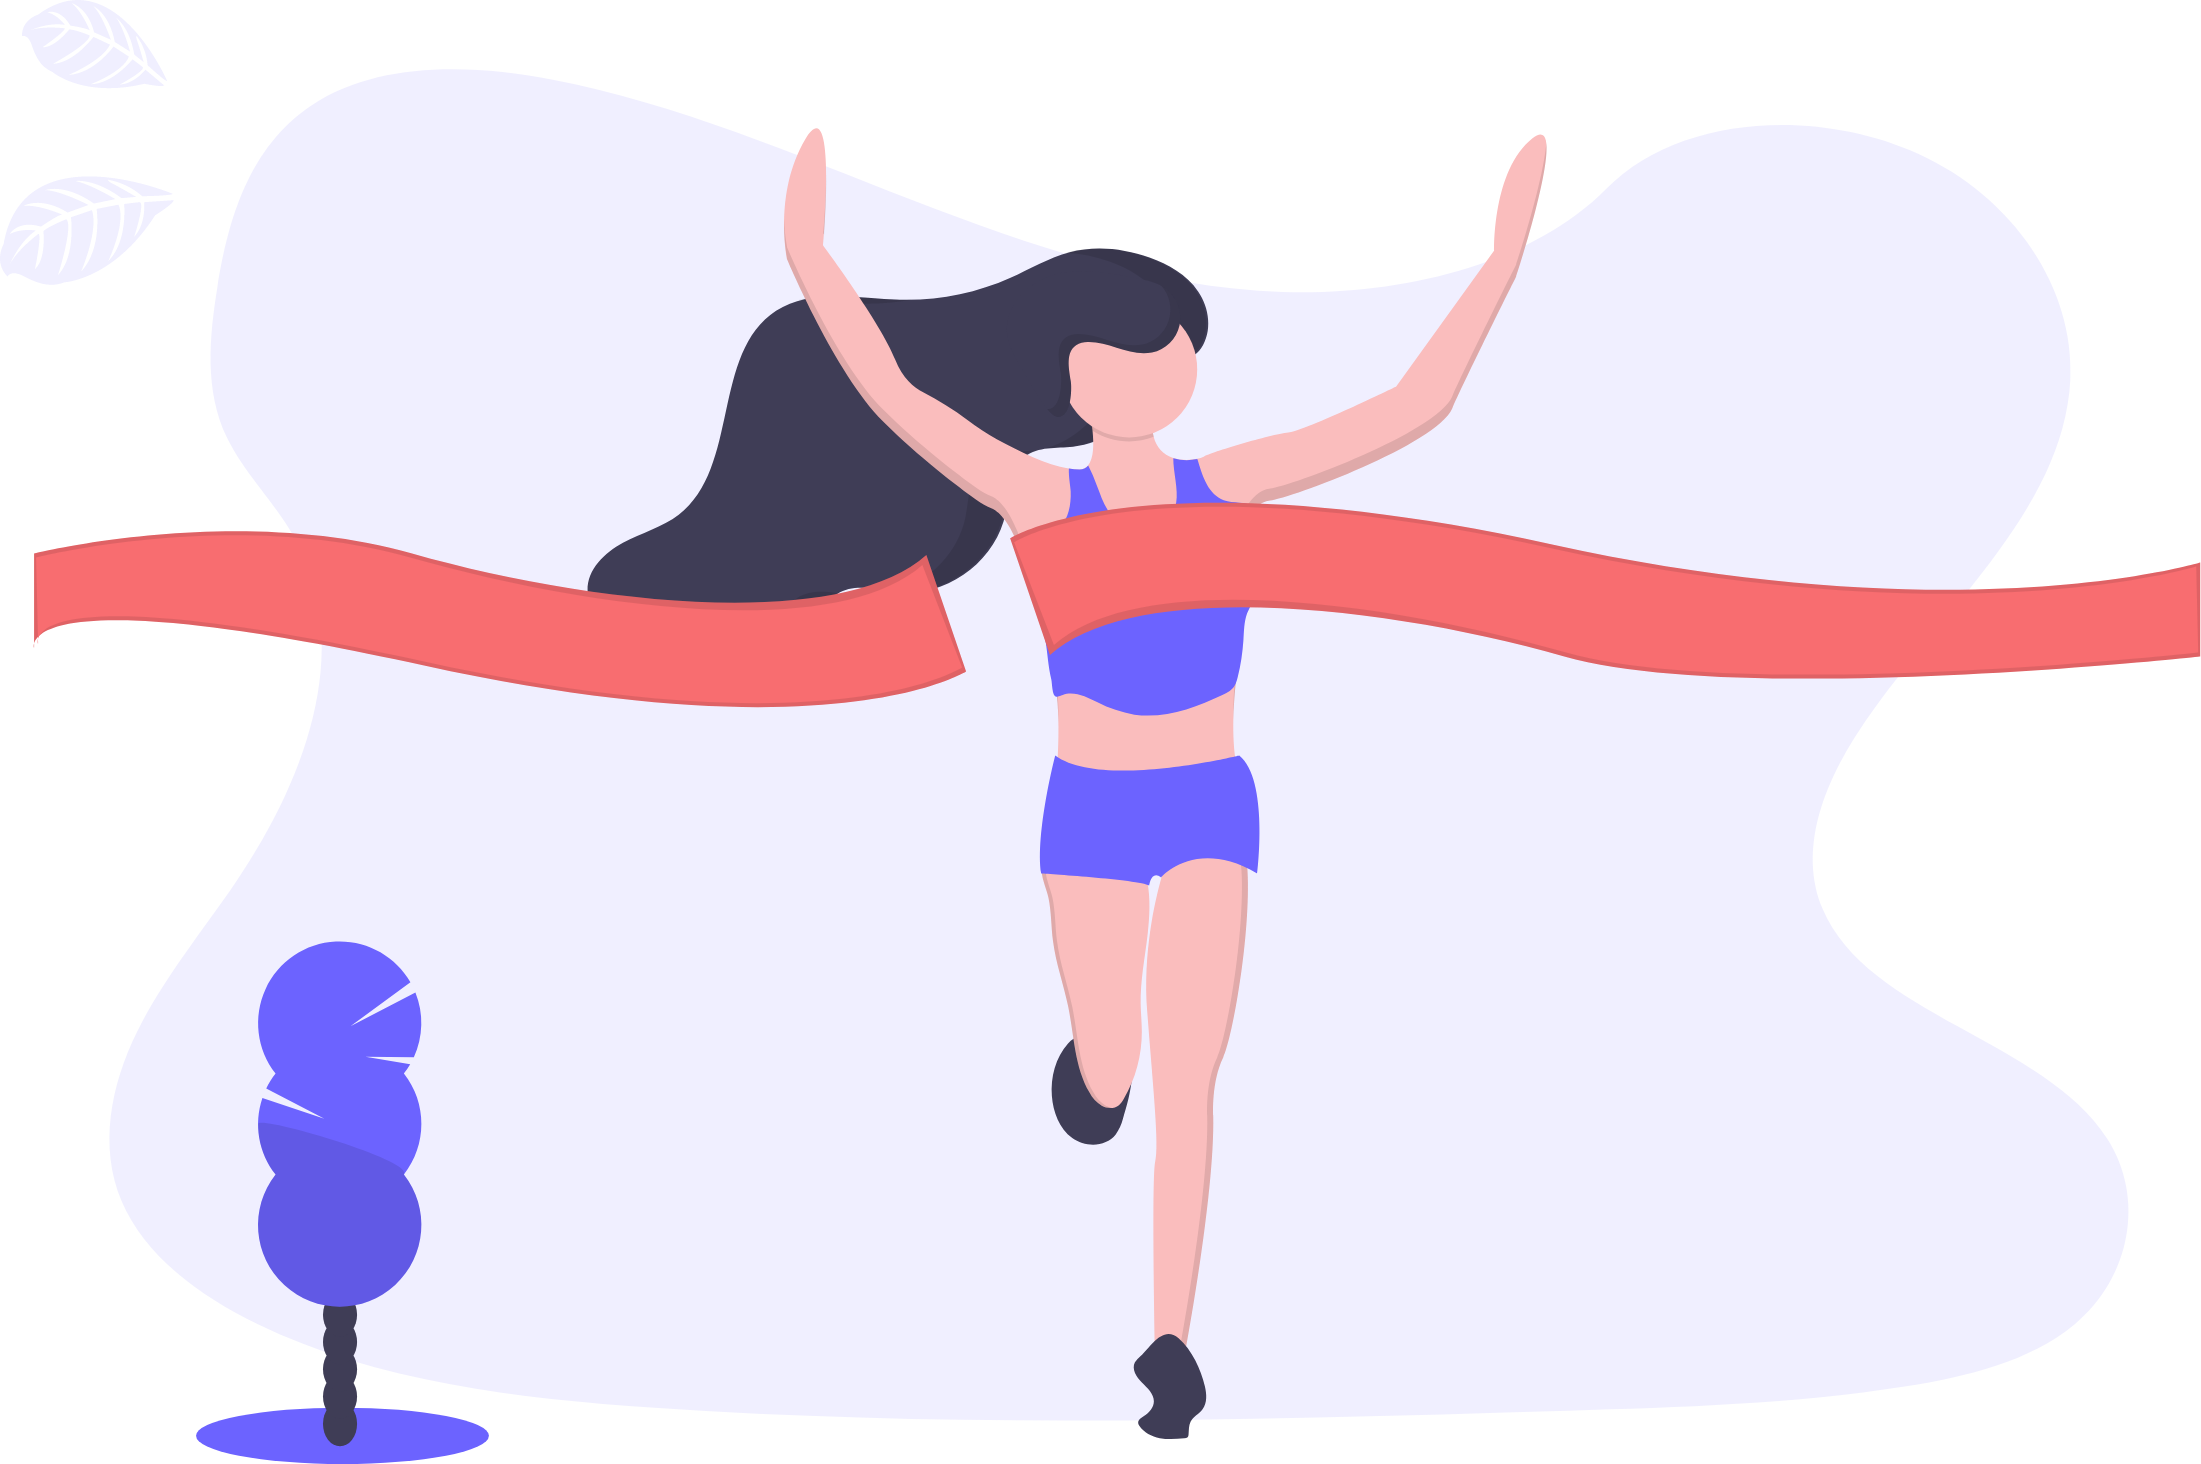
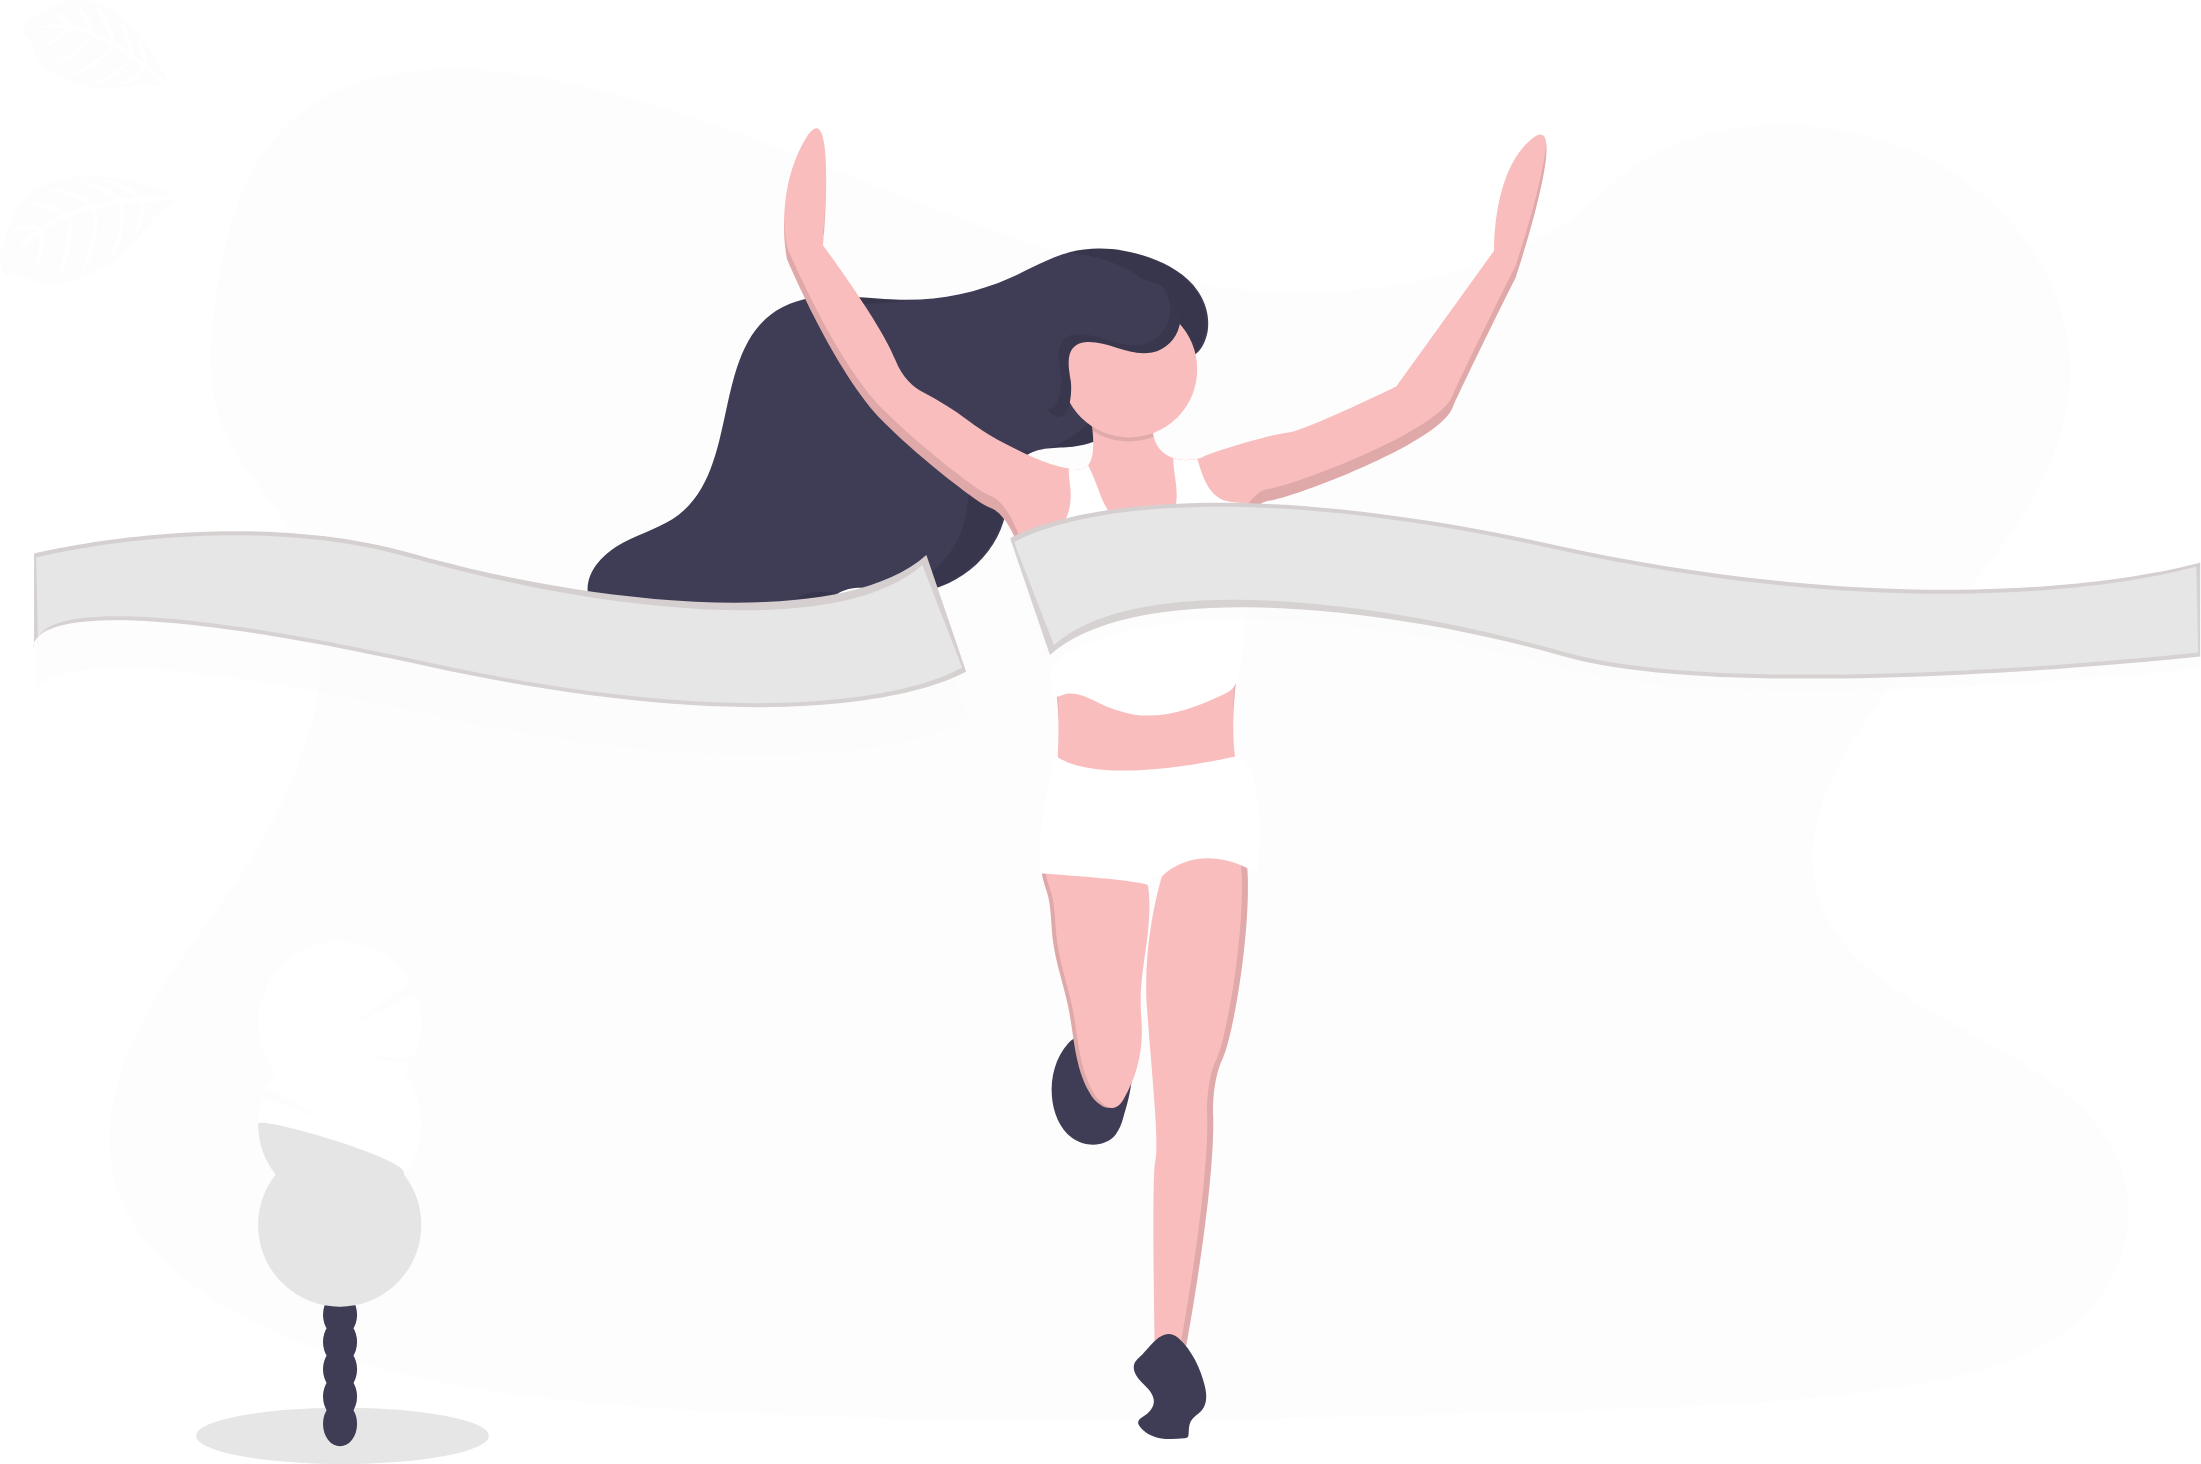
Onboarding assets

diff --git a/Source/app/screens/Onboarding.tsx b/Source/app/screens/Onboarding.tsx
@@ -30,13 +30,13 @@ const slides = [
     title: "My Games",
     description: "Manage your favourite games.",
     color: "#d5ffd1",
-    image: require("../assets/Onboarding/Notifications.png"),
+    image: require("../assets/Onboarding/MyGames.png"),
   },
   {
-    title: "Wellcome!",
+    title: "Welcome!",
     description: "",
     color: "#FF8A65",
-    image: require("../assets/Onboarding/Notifications.png"),
+    image: require("../assets/Onboarding/welcome.png"),
   },
 ];
 
